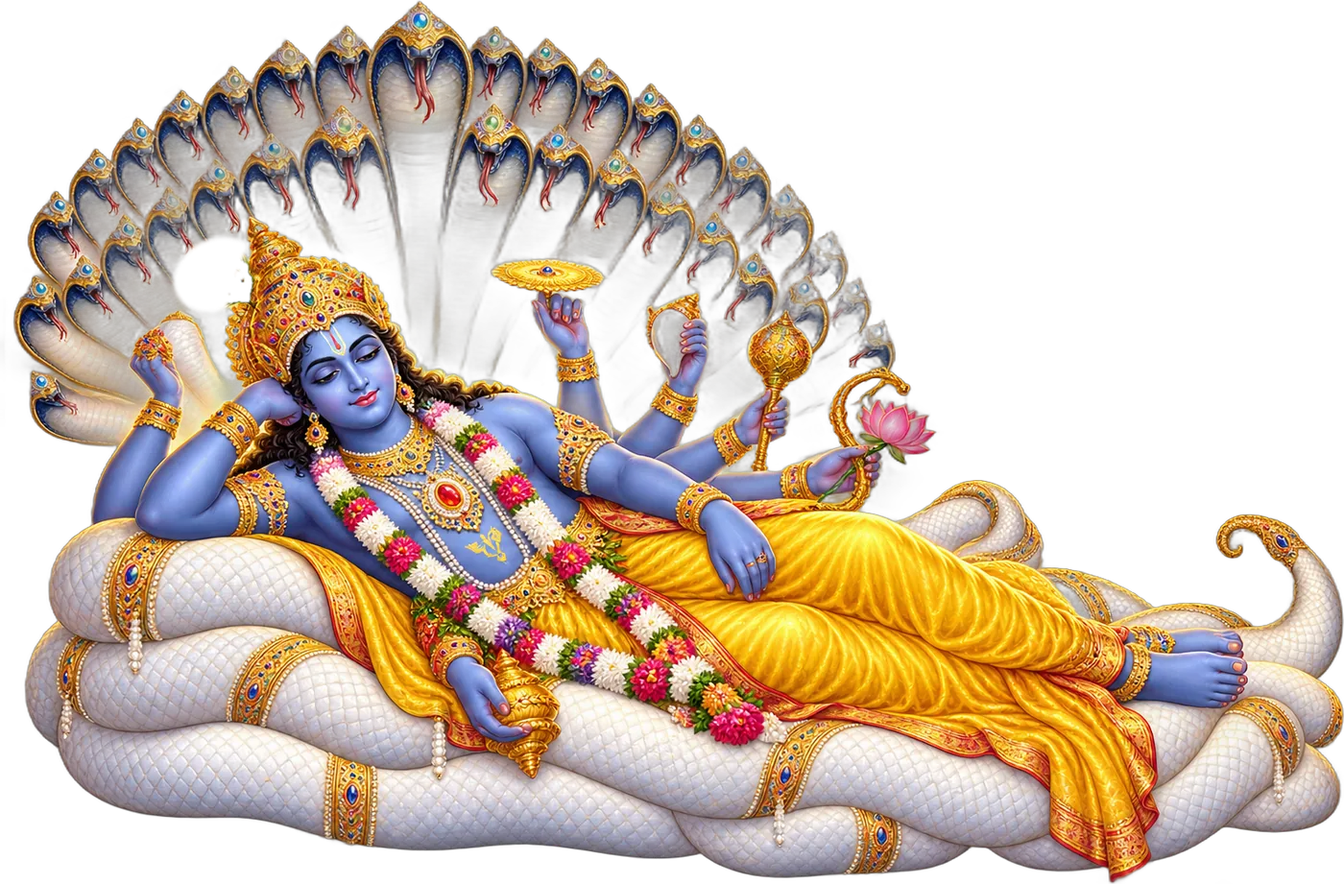
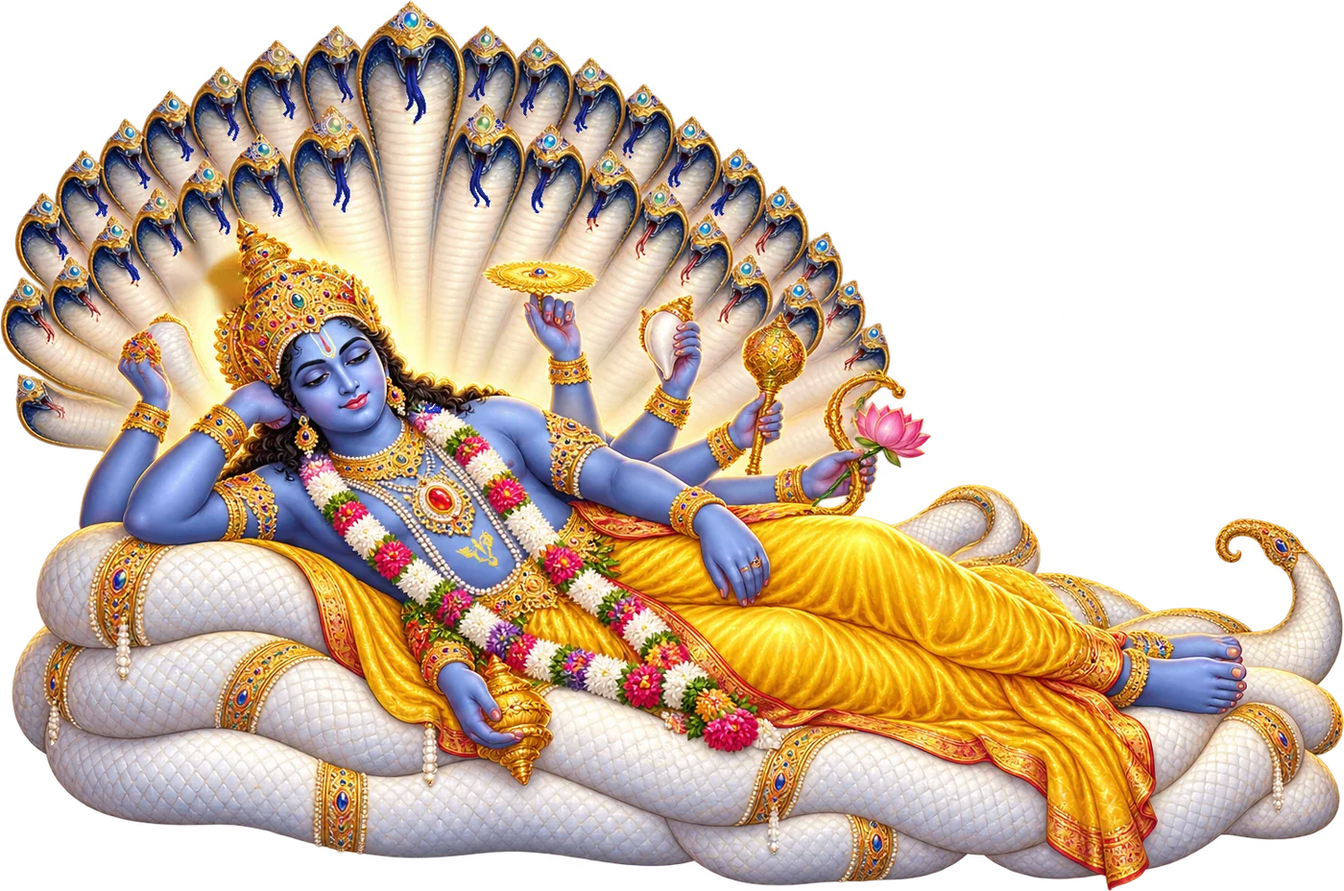
Paintings: Mahā-Viṣṇu (revised), Garbhodakaśāyī Viṣṇu, Goloka, a Vaikuṇṭha planet
- Mahā-Viṣṇu: new cut-out with eight arms; Ananta's tongues recoloured dark blue (SB 10.89.53) and a peacock feather removed; the palace painting shown in His details panel
- Garbhodakaśāyī Viṣṇu: painting on the Garbhodaka with the navel lotus, replacing the drawn light
- Goloka: painting of the lotus, whorl and Śvetadvīpa in place of the drawn petals (BS 5.2–5, 5.29)
- One Vaikuṇṭha planet up close at the centre of the Vaikuṇṭha view (SB 2.9.11, 2.9.13, 3.15.16), with a Look closer stop
- Details panels can carry a picture; How it is drawn notes say what each painting follows and where it departs from the text
- Nearby Vaikuṇṭha planets fade sooner; the breath panel stays out of the spiritual-sky views

Claude-Session: https://claude.ai/code/session_01CPKgnb6Da8G9XujQddditm

diff --git a/index.html b/index.html
@@ -126,6 +126,8 @@ button:focus-visible,input:focus-visible,a:focus-visible,.lbl:focus-visible{outl
 #i-name{font-family:var(--display);font-weight:400;font-size:29px;line-height:1.12;margin:6px 0 0;text-wrap:balance}
 #i-deva{font-family:var(--display);font-size:19px;color:var(--gold-hi);opacity:.85;margin-top:2px;min-height:1px}
 #i-gloss{color:var(--muted);margin:1px 0 0;font-size:13.5px}
+.ipic{margin:12px 0 4px}.ipic img{display:block;width:100%;height:auto;border-radius:10px;border:1px solid var(--panel-edge)}
+.ipic figcaption{font-size:12px;color:var(--faint);margin-top:5px;line-height:1.4}
 #i-explore{margin:12px 0 2px;width:100%;display:flex;align-items:center;justify-content:center;gap:8px;border:0;border-radius:10px;padding:9px 12px;background:var(--gold);color:#1b1404;font-weight:700;font-size:13.5px;cursor:pointer}
 #i-explore:hover{background:var(--gold-hi)}
 .facts{display:grid;grid-template-columns:minmax(0,auto) minmax(0,1fr);margin:14px 0 0;border-top:1px solid var(--rule)}
@@ -528,6 +530,7 @@ button:focus-visible,input:focus-visible,a:focus-visible,.lbl:focus-visible{outl
     <div class="ins-scroll">
       <div class="xsec" id="i-xsec" hidden></div>
       <div class="xsec pow" id="i-pow" hidden></div>
+      <figure class="ipic" id="i-pic" hidden><img alt="" loading="lazy" decoding="async"><figcaption></figcaption></figure>
       <dl class="facts" id="i-facts"></dl>
       <p id="i-body"></p>
       <div class="sec" id="i-feat-wrap"><h3>Look closer</h3><div class="feats" id="i-feat"></div></div>
@@ -1114,7 +1117,8 @@ E.mahavisnu = {name:'Mahā-Viṣṇu', deva:'महाविष्णु', gloss
   facts:[['Rests','at ease on Ananta Śeṣa, in a palace within the water','SB 10.89.52–56'],['Complexion','bluish, the colour of a dense rain cloud','SB 10.89.54–56'],['Dress','a beautiful yellow garment','SB 10.89.54–56'],['Arms','eight, long and handsome','SB 10.89.54–56'],['Ornaments','crown, earrings, the Kaustubha gem, Śrīvatsa, a garland of forest flowers','SB 10.89.54–56'],['Universes','come from His pores as He breathes out, and enter as He breathes in','CC Ādi 5.68–69'],['One out-breath','the lifetime of a Brahmā','BS 5.48'],['A Brahmā\'s lifetime','311 trillion 40 billion years','pp'],['First of three puruṣas','creator of the total material energy','CC Madhya 20.251']],
   body:'Kṛṣṇa and Arjuna found Him seated at ease on the serpent bed, served by Sunanda, Nanda and His other attendants, His cakra and weapons in their personal forms, and His potencies Puṣṭi, Śrī, Kīrti and Ajā. He had taken the brāhmaṇa\'s sons, He said, because He wanted to see the two of them. He is the first of three puruṣas. Mahā-Viṣṇu creates the total material energy, Garbhodakaśāyī Viṣṇu lies within each universe, and Kṣīrodakaśāyī Viṣṇu lives in every heart. He glances at māyā from a distance, and universes appear from the pores of His body as He breathes out and enter Him again as He breathes in. Each Brahmā lives for one of His out-breaths.',
   refs:[['SB 10.89.53','Ananta Śeṣa shone with the gems on His thousands of hoods; He resembled white Mount Kailāsa, and His necks and tongues were dark blue.'],['SB 10.89.54–56','Arjuna saw Mahā-Viṣṇu sitting at ease on the serpent bed: bluish like a dense rain cloud, in a yellow garment, with eight long arms, crown and earrings, the Kaustubha gem, Śrīvatsa and a garland of forest flowers.'],['SB 10.89.58','I brought the brāhmaṇa\'s sons here because I wanted to see the two of you, My expansions.'],['BS 5.47','Reposing in the Causal Ocean with the infinity of the world in the pores of His hair, He enjoys creative sleep.'],['BS 5.48','Brahmā and the other lords of the worlds, appearing from His pores, live as long as one of His exhalations.'],['BG 8.17 purport','Brahmā\'s hundred years, by earth calculation, total 311 trillion 40 billion years.'],['CC Ādi 5.65–70','The first puruṣa glances at māyā from a distance; the universes come out with each outward breath and re-enter as He inhales, passing through His pores like dust through a window.'],['CC Madhya 20.251','Viṣṇu has three forms called puruṣas: Mahā-Viṣṇu, Garbhodakaśāyī and Kṣīrodakaśāyī.']],
-  drawn:'Shown as a painting set upright in the palace, turning to face you; it is a devotional image, not a likeness, and not to scale. It follows the description in 10.89.53–56 in His colour, yellow garment, eight arms, crown, Kaustubha, Śrīvatsa and garland. The conch, disc, club and lotus in His hands follow the usual way of depicting Lord Viṣṇu; the text says His weapons served Him in their personal forms. The painting shows Ananta\'s necks white and tongues red, where the text has them dark blue. If the painting cannot load, a simple figure of light is drawn instead. Play the breath to see the universes come out of His pores and go back in; one breath, a whole lifetime of Brahmā, takes about fifty seconds there. He, the palace and the universes are not to scale.'};
+  drawn:'Shown as a painting set upright in the palace, turning to face you; it is a devotional image, not a likeness, and not to scale. It follows 10.89.53–56 in His rain-cloud colour, yellow garment, eight arms, crown and earrings, Kaustubha, Śrīvatsa and garland, and Ananta\'s white body, gems on the hoods and dark-blue necks. Two things were changed to match the text: Ananta\'s tongues, painted red, were recoloured dark blue (10.89.53), and a peacock feather on the crown, which the text does not describe, was removed. The conch, disc, club and lotus in His hands follow the usual way of depicting Lord Viṣṇu; the text says His weapons served Him in their personal forms. If the painting cannot load, a simple figure of light is drawn instead. Play the breath to see the universes come out of His pores and go back in; one breath, a whole lifetime of Brahmā, takes about fifty seconds there. He, the palace and the universes are not to scale.',
+  pic:{src:'img/mahavisnu-palace.webp', alt:'Mahā-Viṣṇu with eight arms on Ananta Śeṣa, in a palace of jewelled pillars amid churning waves', cap:'As Arjuna saw Him: in a palace of thousands of jewelled pillars, in water churned by a mighty wind (SB 10.89.52–56).'}};
 E.brahmajyoti = {name:'Brahmajyoti', deva:'ब्रह्मज्योति', gloss:'The effulgence of the Lord\'s body', eyebrow:'Beyond the shell · Siddhaloka',
   facts:[['Source','the effulgence of Govinda\'s body','BS 5.40'],['Place','outside the Vaikuṇṭha planets','CC Ādi 5.32'],['Also called','Siddhaloka','CC Ādi 5.33'],['Nature','spiritual, but without spiritual varieties','CC Ādi 5.33'],['Who lives there','those who attain brahma-sāyujya, merging into Brahman','CC Ādi 5.31'],['Seen by Arjuna','an endless light that hurt his eyes','SB 10.89.51']],
   body:'Past the darkness of the coverings, Kṛṣṇa\'s chariot reached the endless spiritual light of the all-pervasive brahmajyoti, and Arjuna had to shut his eyes. The Brahma-saṁhitā calls this light the effulgence of Govinda, the undifferentiated Brahman of the Upaniṣads. It surrounds the Vaikuṇṭha planets. Those who seek to merge into Brahman live in it, outside Vaikuṇṭha, without the variety of spiritual pastimes.',
@@ -1856,9 +1860,9 @@ const MVF = {};
   mvGroup.add(new THREE.Points(cg, new THREE.PointsMaterial({size:340, vertexColors:true, sizeAttenuation:true, transparent:true, depthWrite:false})));
   MVF.palace = anchorAt(mvGroup, -1.4, 11.5, -13.2);
   // The painting of the Lord on Ananta Śeṣa
-  BEY.mvImg = paintingBoard('img/mahavisnu.webp', 46, 46*921/1400, mvGroup, b => {
+  BEY.mvImg = paintingBoard('img/mahavisnu.webp', 46, 46*928/1400, mvGroup, b => {
     BEY.mvProc.forEach(o => { o.visible = false; });
-    onBoard(b, MVF.head, .25, .27); onBoard(b, MVF.hoods, .36, .03); onBoard(b, MVF.feet, .88, .74); onBoard(b, MVF.kaus, .37, .47);
+    onBoard(b, MVF.head, .22, .19); onBoard(b, MVF.hoods, .31, .04); onBoard(b, MVF.feet, .89, .73); onBoard(b, MVF.kaus, .33, .55);
     LABELS.forEach(L => { L.w = 0; });
   });
   BEY.mvImg.g.position.set(-1.4, .3, 1.5); pickable(BEY.mvImg.mesh, 'mahavisnu');
@@ -1911,17 +1915,18 @@ const spGroup = new THREE.Group(); karanaGroup.add(spGroup);
     vertexShader:`uniform float uPx; attribute float aSeed; varying vec3 vN; varying vec3 vV; varying float vS; varying float vF;
       void main(){ mat4 mm = modelMatrix*instanceMatrix; vec4 mv = viewMatrix*mm*vec4(position,1.);
         vec4 mc = viewMatrix*mm*vec4(0.,0.,0.,1.); float px = length(instanceMatrix[0].xyz)*uPx/max(-mc.z, 1.);
-        vF = 1. - smoothstep(40., 110., px);
+        vF = 1. - smoothstep(14., 36., px);
         vN = normalize(mat3(viewMatrix)*mat3(mm)*normal); vV = normalize(-mv.xyz); vS = aSeed; gl_Position = projectionMatrix*mv; }`,
     fragmentShader:`uniform float uA; varying vec3 vN; varying vec3 vV; varying float vS; varying float vF;
       void main(){ float a = uA*vF; if (a < .01) discard; float c = max(dot(normalize(vN), normalize(vV)), 0.);
         vec3 core = mix(vec3(1.,.95,.82), vec3(.9,.97,1.), vS), rim = mix(vec3(.25,.55,1.), vec3(1.,.7,.3), vS);
         vec3 col = mix(rim, core, pow(c, 1.6))*.98;
         gl_FragColor = vec4(col, a); }`, transparent:true});
-  const P = [];
+  const VK_FEAT = SP_C.clone().add(new THREE.Vector3(0, -30e3, 60e3));   // the planet shown up close
+  const P = [{p:VK_FEAT.clone(), r:20e3, s:.5}];
   for (let t=0; t<6000 && P.length<170; t++){
     const p = inEll().multiply(new THREE.Vector3(640e3, 330e3, 640e3)).add(SP_C);
-    if (p.y < SP_C.y - 230e3 || p.distanceTo(GOLOKA_P) < 260e3) continue;
+    if (p.y < SP_C.y - 230e3 || p.distanceTo(GOLOKA_P) < 260e3 || p.distanceTo(VK_FEAT) < 250e3) continue;
     const r = 7e3 + Math.pow(brnd(), 2)*13e3;
     if (P.some(o => o.p.distanceTo(p) < o.r + r + 26e3)) continue;
     P.push({p, r, s:brnd()});
@@ -1940,7 +1945,15 @@ const spGroup = new THREE.Group(); karanaGroup.add(spGroup);
         gl_FragColor = vec4(vec3(1.,.9,.72), uA*.28*vF*exp(-r*r*3.)); }`,
       transparent:true, depthWrite:false, blending:THREE.AdditiveBlending});
     BEY.vaikHalo = new THREE.Points(hg, hm); BEY.vaikHalo.frustumCulled = false; spGroup.add(BEY.vaikHalo); }
-  BEY.vaikA = P.slice().sort((a, b) => b.r - a.r)[0].p;
+  BEY.vaikA = VK_FEAT.clone().add(new THREE.Vector3(0, 40e3, 0));
+  const VW = 300e3, VH = VW*1091/1100;
+  BEY.vkFeatA = anchorAt(spGroup, VK_FEAT.x, VK_FEAT.y, VK_FEAT.z);
+  BEY.vkImg = paintingBoard('img/vaikuntha.webp', VW, VH, spGroup, b => {
+    M.compose(VK_FEAT, Q, S.setScalar(0)); im.setMatrixAt(0, M); im.instanceMatrix.needsUpdate = true;   // the painting takes that planet's place
+    BEY.vaikA.y = VK_FEAT.y + VH*.5; onBoard(b, BEY.vkFeatA, .5, .5); pickable(b.mesh, 'vaikuntha'); LABELS.forEach(L => { L.w = 0; });
+    E.vaikuntha.drawn = 'Drawn as self-luminous spheres in the effulgence; how many, how large and where are illustrative. One planet is shown up close as a devotional painting, far larger than the rest and not to scale: its residents four-armed, sky-bluish and in yellow (SB 2.9.11), the glowing airplanes of the devotees around it (SB 2.9.13), and forests of desire trees in flower and fruit (SB 3.15.16), with the Lord and Lakṣmī among them. The peacock feather on the Lord\'s crown is the painter\'s.';
+    if (sel === 'vaikuntha') showInspector('vaikuntha'); });
+  BEY.vkImg.g.position.set(VK_FEAT.x, VK_FEAT.y - VH*.5, VK_FEAT.z);
 }
 // Govinda's effulgence pouring down from Goloka (BS 5.40), drawn as soft rays
 {
@@ -2022,6 +2035,13 @@ const golGroup = new THREE.Group(); golGroup.position.copy(GOLOKA_P); golGroup.s
   [[0,1.38],[1.38,0],[0,-1.38],[-1.38,0]].forEach(([x, z]) => { const s = bSprite(smoothTex, 0xFFFFFF, .32, .8); s.position.set(x, 0, z); golGroup.add(s); });
   const halo = bSprite(smoothTex, 0xFFD8C8, 5.5, .32); golGroup.add(halo);
   BEY.golA = anchorAt(golGroup, 0, 1.0, 0); BEY.svetaA = anchorAt(golGroup, 1.38, .05, 1.38); BEY.whorlA = anchorAt(golGroup, 0, .5, 0);
+  const drawnGol = golGroup.children.filter(o => o !== halo && o !== BEY.golA && o !== BEY.svetaA && o !== BEY.whorlA);
+  BEY.golImg = paintingBoard('img/goloka.webp', 3.3, 3.3*917/1400, golGroup, b => {
+    drawnGol.forEach(o => { o.visible = false; });
+    onBoard(b, BEY.golA, .5, .02); onBoard(b, BEY.whorlA, .5, .32); onBoard(b, BEY.svetaA, .88, .78); pickable(b.mesh, 'goloka'); LABELS.forEach(L => { L.w = 0; });
+    E.goloka.drawn = 'Shown as a devotional painting, turning to face you, not to scale: a lotus of many petals around a hexagonal whorl, Kṛṣṇa\'s abode (BS 5.2, 5.4), with gardens, gem-built houses, desire trees and cows on the petals (BS 5.29), inside a white square for Śvetadvīpa (BS 5.5). Kṛṣṇa is not drawn. The text speaks of thousands of petals; the painting shows fewer. Its size and distance are not to scale.';
+    if (sel === 'goloka') showInspector('goloka'); });
+  BEY.golImg.g.position.y = -1.1;
 }
 
 /* The sky beyond: dark inside the cloud of māyā, golden in the brahmajyoti, brightest toward the spiritual sky */
@@ -2060,6 +2080,7 @@ addLabel({id:'paravyoma', text:'The spiritual sky', sub:'three fourths of the Lo
 const bzFeat = (id, name, anchor, note, d) => { addLabel({text:name, cls:'c-gold feat bz', pri:46, only:[id], anchor, lod:0, win:() => true}); feat(id, name, note, anchor, d); };
 bzFeat('mahavisnu', 'Ananta Śeṣa', MVF.hoods, 'White like Mount Kailāsa, with gems on thousands of hoods; His necks and tongues are dark blue (10.89.53).', 34);
 bzFeat('mahavisnu', 'The palace', MVF.palace, 'A palace more radiant than anything Arjuna had seen, its beauty enhanced by thousands of jewelled pillars (10.89.52).', 60);
+bzFeat('vaikuntha', 'One Vaikuṇṭha planet', BEY.vkFeatA, 'Its residents four-armed and sky-bluish, in yellow (SB 2.9.11), with the glowing airplanes of the devotees around it (SB 2.9.13).', 520e3);
 bzFeat('goloka', 'The whorl', BEY.whorlA, 'The hexagonal abode of Kṛṣṇa; the petals around it are the abodes of the gopīs (BS 5.4).', 1.2);
 bzFeat('goloka', 'Śvetadvīpa', BEY.svetaA, 'A quadrangular place in four parts, the abodes of Vāsudeva, Saṅkarṣaṇa, Pradyumna and Aniruddha (BS 5.5).', 1.6);
 
@@ -2878,19 +2899,22 @@ const GV_X = 19;
   sg.setAttribute('aUp', new THREE.BufferAttribute(up, 1));
   const sm = new THREE.ShaderMaterial({uniforms:{uA:{value:1}}, vertexShader:`attribute float aUp; varying float vU; void main(){ vU = aUp; gl_Position = projectionMatrix*modelViewMatrix*vec4(position,1.); }`,
     fragmentShader:`uniform float uA; varying float vU; void main(){ gl_FragColor = vec4(vec3(1.,.82,.45), uA*.75*(1. - smoothstep(.15, .9, vU))); }`, transparent:true, depthWrite:false, blending:THREE.AdditiveBlending});
-  g.add(new THREE.Mesh(sg, sm));
+  const stem = new THREE.Mesh(sg, sm); g.add(stem);
   const navel = bSprite(smoothTex, 0xFFD27A, 1, .8); navel.scale.set(1.8, 1.8, 1); navel.position.set(.6, 1.8, .3); g.add(navel);
   const hit = new THREE.Mesh(new THREE.SphereGeometry(1, 12, 8), new THREE.MeshBasicMaterial({visible:false})); hit.scale.set(11, 3, 3); hit.position.y = 1.5; g.add(hit); pickable(hit, 'garbhodakasayi');
   BEY.gvHead = anchorAt(g, -5, 4.2, 0); BEY.gvNavel = anchorAt(g, .6, 1.8, 0); BEY.gvStem = anchorAt(g, -2.4, 12, 0);
   // a painting can take the place of the light, as with Mahā-Viṣṇu and Ananta: set GV_IMG to its path once there is one
-  const GV_IMG = null;
-  if (GV_IMG) BEY.gvImg = paintingBoard(GV_IMG, 22, 22*.66, g, b => { [bed, body, cloth, hoods].forEach(o => o.visible = false); onBoard(b, BEY.gvHead, .2, .35); onBoard(b, BEY.gvNavel, .52, .55); pickable(b.mesh, 'garbhodakasayi');
-    E.garbhodakasayi.drawn = 'Shown as a devotional painting set in the water, turning to face you, not to scale; His body occupies the three planetary systems (SB 3.8.25). The lotus stem from His navel rises and fades into the worlds above, which are within it (CC Ādi 5.103). Hidden in True proportions.'; });
+  const GV_IMG = 'img/garbhodakasayi.webp';
+  if (GV_IMG){ BEY.gvImg = paintingBoard(GV_IMG, 25, 25*904/1400, g, b => { [bed, body, cloth, hoods, navel, stem].forEach(o => o.visible = false);
+    onBoard(b, BEY.gvHead, .19, .2); onBoard(b, BEY.gvNavel, .414, .58); onBoard(b, BEY.gvStem, .6, .17); pickable(b.mesh, 'garbhodakasayi'); LABELS.forEach(L => { L.w = 0; });
+    E.garbhodakasayi.drawn = 'Shown as a devotional painting set on the water, turning to face you, not to scale; His body occupies the three planetary systems (SB 3.8.25). It follows SB 3.8.23–31 in Śeṣa\'s white lotus-like bed and jewelled hoods, the yellow cloth and belt, the necklace, jewels, pearls and garlands, and the lotus from His navel blazing like the sun (SB 3.20.16). His two arms and complexion are the painter\'s; the text does not state them. The lotus is shown just above Him; the text says the fourteen worlds are within its stem (CC Ādi 5.103). Hidden in True proportions.';
+    if (sel === 'garbhodakasayi') showInspector('garbhodakasayi'); });
+    BEY.gvImg.g.position.set(-1, -.4, 0); }
 }
 addLabel({id:'garbhodakasayi', text:'Garbhodakaśāyī Viṣṇu', sub:'the second puruṣa', cls:'c-high', pri:73, anchor:BEY.gvHead});
 featLabel('garbhodakasayi', 'The lotus from His navel', BEY.gvNavel, 'c-gold');
 feat('garbhodakasayi', 'The lotus from His navel', 'A lotus effulgent like a thousand suns, Brahmā\'s birthplace (SB 3.20.16).', BEY.gvNavel, 14);
-feat('garbhodakasayi', 'The lotus stem', 'Within the stem of that lotus were the fourteen worlds (CC Ādi 5.103).', BEY.gvStem, 26);
+feat('garbhodakasayi', 'The lotus', 'Within the stem of that lotus were the fourteen worlds (CC Ādi 5.103); Brahmā was born on it (SB 3.20.16).', BEY.gvStem, 26);
 addLabel({id:'ananta', text:'Ananta Śeṣa', sub:'30,000 below Pātāla', cls:'c-gold', pri:74, anchor:anchorAt(ananta,0,12,-2)});
 
 // Garbhodaka
@@ -3602,7 +3626,7 @@ function focusFor(id){
     case 'naraka':     return {p:v.set(0,Yh(-85e3),R(9.35e6)), d:lerp(95,30,t), dir:DIR_LOW};
     case 'ananta':     return {p:v.set(0,Yh(-100e3)+6*lerp(1,.004,t),0), d:lerp(42,1,t), dir:new THREE.Vector3(.3,.18,.94).normalize()};
     case 'garbhodaka': return {p:v.set(0,Yh(-100e3)-60*(1-t),0), d:lerp(420,480,t), dir:DIR_LOW};
-    case 'garbhodakasayi': { const k = lerp(1,.004,t); return {p:v.set(GV_X*k*.9,Yh(-100e3)+4*k,0), d:lerp(46,1,t), dir:new THREE.Vector3(.12,.2,.97).normalize()}; }
+    case 'garbhodakasayi': { const k = lerp(1,.004,t); return {p:v.set(GV_X*k*.9,Yh(-100e3)+4*k,0), d:lerp(46,1,t)*Math.max(1, .8/(camera.aspect || 1.6)), dir:new THREE.Vector3(.12,.2,.97).normalize()}; }
     case 'ganga':      return {p:v.set(0,t?110:95,0), d:lerp(430,520,t), dir:new THREE.Vector3(.58,.22,.78).normalize()};
   }
   const VC = {ilavrta:[0,0],hari:[0,23.5e3],kimpurusa:[0,34.5e3],ramyaka:[0,-23.5e3],hiranmaya:[0,-34.5e3],kuru:[0,-45.5e3],ketumala:[-34e3,0],bhadrasva:[34e3,0]};
@@ -3681,6 +3705,9 @@ function showInspector(id){
   powSync(id);
   $('#i-facts').innerHTML = (e.facts||[]).map(([l,v,s]) => `<dt>${esc(l)}</dt><dd><span>${esc(v)}</span>${chipOf(s)}</dd>`).join('');
   $('#i-body').textContent = e.body || '';
+  { const f = $('#i-pic'), pic = e.pic; f.hidden = !pic;
+    if (pic){ const im = f.querySelector('img'); if (im.getAttribute('src') !== pic.src) im.src = pic.src; im.alt = pic.alt || ''; f.querySelector('figcaption').textContent = pic.cap || '';
+      im.onerror = () => { f.hidden = true; }; } }
   { const xs = $('#i-xsec'), show = XS_SHOW.has(id) || (XS_SHOW.has(xsPrevWorld) && XS_WORLD[id]);
     if (show){ const fresh = xs.hidden; xsMount(); xs.hidden = false; xsSync(id);
       if (fresh && !reduceMotion){ xs.classList.remove('play'); void xs.offsetWidth; xs.classList.add('play'); } }
@@ -3971,6 +3998,7 @@ function updateBeyond(dt){
   mvGroup.visible = oA > .004; BEY.figMat.uniforms.uT.value = BEY.t;
   if (mvGroup.visible && BEY.mvImg.g.visible) faceBoard(BEY.mvImg, mvGroup.rotation.y);
   if (BEY.anImg.g.visible && isVisibleDeep(ananta)) faceBoard(BEY.anImg, 0);
+  if (BEY.gvImg && BEY.gvImg.g.visible && isVisibleDeep(ananta)) faceBoard(BEY.gvImg, 0);
   const br = BEY.br;
   if (br.play && camR < 30000) breathPresent();                      // close in, the inside of our universe is drawn: stay in the present
   if (br.play) br.ph = (br.ph + dt/BR_P) % 1;
@@ -3996,6 +4024,7 @@ function updateBeyond(dt){
   if (spGroup.visible){
     spGroup.traverse(o => { if (o.isSprite || o.isPoints) fade(o.material, sA); });
     BEY.vaikMat.uniforms.uA.value = sA; BEY.golMat.uniforms.uA.value = sA; fade(BEY.sqMat, sA); BEY.rays.uniforms.uA.value = sA; BEY.motes.material.uniforms.uA.value = sA; BEY.vaikHalo.material.uniforms.uA.value = sA;
+    [BEY.golImg, BEY.vkImg].forEach(b => { if (b.g.visible){ b.mesh.material.opacity = sA; faceBoard(b, 0); } });
   }
   // the sky: indigo inside the universe, dark in the cloud of māyā, golden in the brahmajyoti
   const mix = on ? sstep(oD*1.6, oD*4.5, camR) : 0, dm = BEY.dome.material.uniforms;
@@ -4108,7 +4137,7 @@ function breathPhase(ph){
 function breathPresent(){ BEY.br.play = false; BEY.br.ph = BR_NOW; }
 function breathUI(b, camR, oA){
   const w = $('#breath'), show = oA > .5 && camR > 30000 && camR < 1.4e6 && !introOn && tourI < 0 && LAYER_ON.beyond !== false
-    && (window.innerWidth >= 900 || BEY.br.play || sel === 'mahavisnu' || sel === 'brahmandas');   // on a phone it would cover the view, so only where the breath is the subject
+    && (BEY.br.play || (window.innerWidth >= 900 ? !['brahmajyoti','vaikuntha','goloka','paravyoma'].includes(sel) : (sel === 'mahavisnu' || sel === 'brahmandas')));   // the breath belongs to the material creation; on a phone it would cover the view   // on a phone it would cover the view, so only where the breath is the subject
   if (w.hidden === show) w.hidden = !show;
   const br = BEY.br, atNow = !br.play && Math.abs(br.ph - BR_NOW) < 1e-3, [t, sub] = atNow ? ['The present', 'second half of our Brahmā\'s life (SB 3.11.34)'] : breathPhase(br.ph);
   const key = t + sub + br.play;
@@ -4857,7 +4886,7 @@ syncCaption();
 applyPanels();
 { const f = focusFor('overview'); camera.position.copy(f.p.clone().add(f.dir.clone().multiplyScalar(f.d))); controls.target.copy(f.p); }   // re-fit once the saved panel layout is applied
 requestAnimationFrame(frame);
-if (/[?&]debug\b/.test(location.search)) window.__bc = {camera, controls, select, flyView, BEY, focusFor, railPose, railU, get sel(){ return sel; }};   // test hook, only with ?debug
+if (/[?&]debug\b/.test(location.search)) window.__bc = {camera, controls, select, flyView, BEY, focusFor, railPose, railU, FEAT, flyFeature, get sel(){ return sel; }};   // test hook, only with ?debug
 (() => {
   const start = HASH_OK(START_HASH) ? START_HASH : null;
   if (start){ setTimeout(() => select(start, true), 400); return; }   // a shared link skips the tour

diff --git a/README.md b/README.md
@@ -11,7 +11,7 @@ An interactive 3D model of the universe (Brahmāṇḍa) as described in **Śrī
 - **The seven upper worlds** (SB 2.5.38–39): Bhūr (the disc), Bhuvar (the sky up to the Sun), Svar (heaven, up to Dhruvaloka), then Mahar, Jana, Tapa and Satya
 - **The seven lower worlds**: Atala to Pātāla, plus Naraka, Ananta Śeṣa and the Garbhodaka water
 - **The Gaṅgā's descent**, the Sun's yearly course, and a day/night view
-- **Garbhodakaśāyī Viṣṇu**: below the lower worlds, the second puruṣa lies on Śeṣa in the water He filled half the universe with, the lotus stem rising from His navel (SB 3.8.23–31, 3.20.15–16; CC Ādi 5.95–103). He is drawn as a form of light until a painting is added.
+- **Garbhodakaśāyī Viṣṇu**: below the lower worlds, the second puruṣa lies on Śeṣa in the water He filled half the universe with, the lotus stem rising from His navel (SB 3.8.23–31, 3.20.15–16; CC Ādi 5.95–103). He is shown as a devotional painting, with a form of light standing in if it cannot load.
 - **Beyond the universe**: zoom out past the shell, or press **Beyond** for Arjuna's journey (SB 10.89). It passes the seven coverings, each ten times thicker than the last and drawn on a log scale (SB 2.2.28–30, 3.11.41). Just outside them is the Causal Ocean, the Virajā (CC Madhya 20.269), where Mahā-Viṣṇu lies on Ananta Śeṣa breathing universes out and in (SB 10.89.52–56; BS 5.47–48; CC Ādi 5.65–70); our universe and countless others, ours the smallest, lie on its waters around Him (SB 3.20.15; CC Madhya 21.84–86). Last are the brahmajyoti, the Vaikuṇṭha planets and Goloka, arranged as the Brahma-saṁhitā ranks the realms (BS 5.2–5, 5.43). None of this is to scale; each step outward is drawn about ten times larger than the last. A first visit opens with a short descent from the whole creation into our universe (any touch, scroll or key skips it).
 
 ## Two views
@@ -30,4 +30,4 @@ An interactive 3D model of the universe (Brahmāṇḍa) as described in **Śrī
 
 ## Technical
 
-One `index.html`, with two paintings in `img/` (Mahā-Viṣṇu on Ananta Śeṣa, and Ananta Śeṣa bearing the universe), loaded as textures; if they fail to load, drawn figures stand in. It uses Three.js r128 from cdnjs (with its OrbitControls and bloom post-processing scripts from jsDelivr) and fonts from Google Fonts. Without WebGL 2 the glow is skipped and everything else works. There is no build step. To run it locally, serve the folder (for example `python3 -m http.server`) and open it in a browser; opened straight from disk, browsers block the paintings and the drawn figures appear instead.
+One `index.html`, with devotional paintings in `img/` (Mahā-Viṣṇu on Ananta Śeṣa, Ananta Śeṣa bearing the universe, Garbhodakaśāyī Viṣṇu, Goloka and one Vaikuṇṭha planet) loaded as transparent textures, plus a full painting of Mahā-Viṣṇu in His palace shown in His details panel; if they fail to load, drawn figures stand in. It uses Three.js r128 from cdnjs (with its OrbitControls and bloom post-processing scripts from jsDelivr) and fonts from Google Fonts. Without WebGL 2 the glow is skipped and everything else works. There is no build step. To run it locally, serve the folder (for example `python3 -m http.server`) and open it in a browser; opened straight from disk, browsers block the paintings and the drawn figures appear instead.
